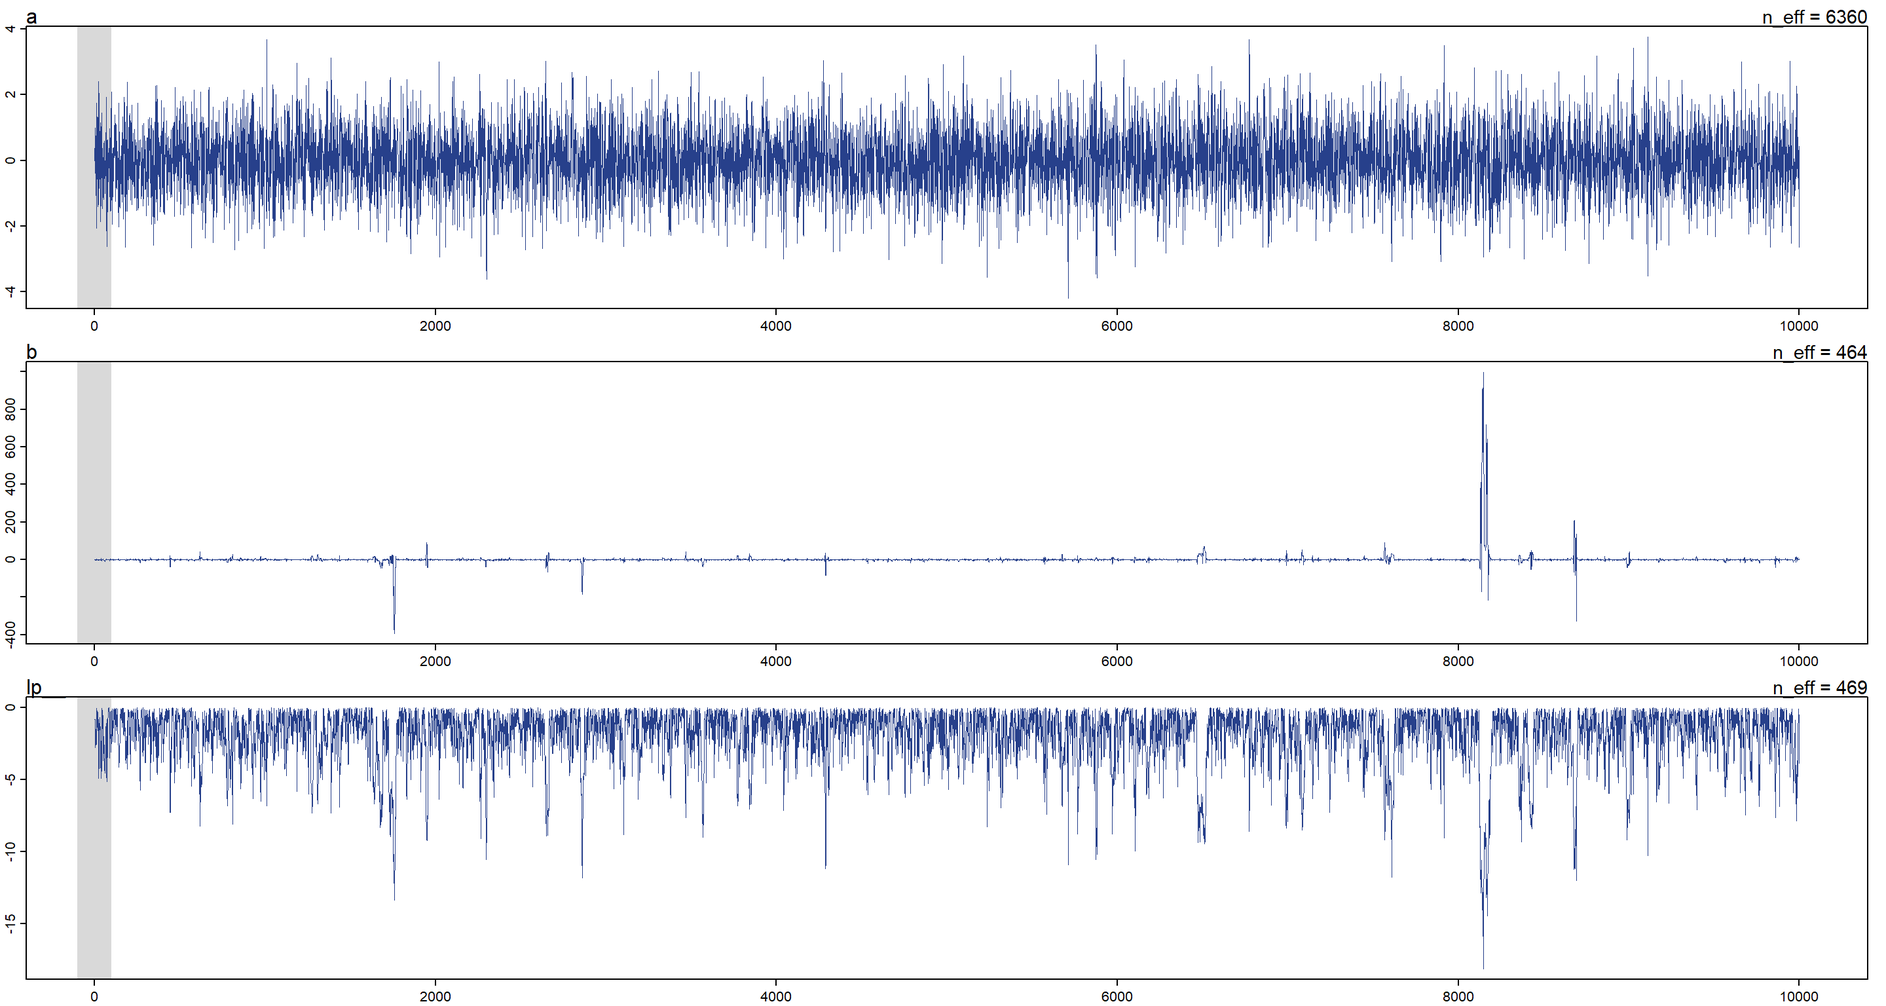
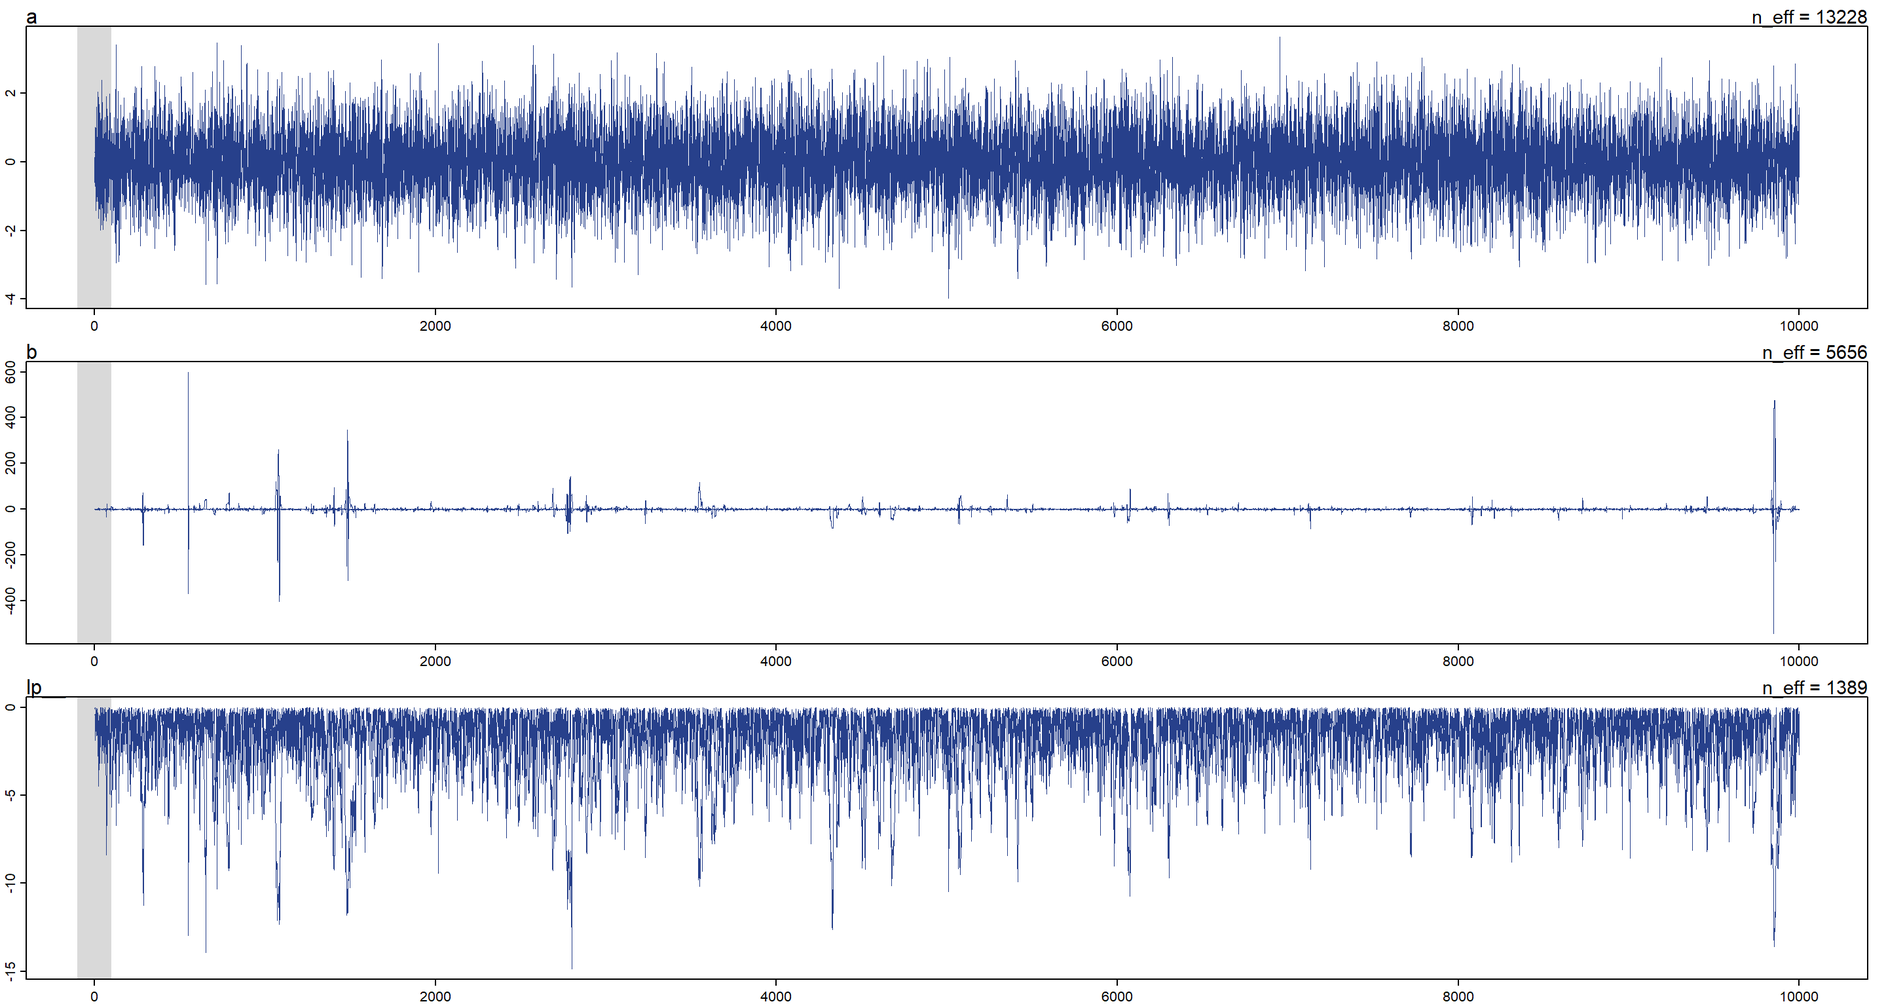
Rethinking chapter 9 fixes

diff --git a/content/post/rethinking/2021-02-25-statistical-rethinking-chapter-09/index.en.html b/content/post/rethinking/2021-02-25-statistical-rethinking-chapter-09/index.en.html
@@ -207,19 +207,19 @@ m.M1Uni &lt;- ulam(
 ## nobs      170     170</code></pre>
 <p>These are strikingly the same. What about the individual model outputs in more detail?</p>
 <pre class="r"><code>precis(m.M1Exp, depth = 2)</code></pre>
-<pre><code>##             mean         sd         5.5%       94.5%    n_eff     Rhat4
-## a[1]   0.8864457 0.01605138  0.860987469  0.91243479 3005.763 0.9994138
-## a[2]   1.0507302 0.01001553  1.034829151  1.06683544 3521.893 0.9981873
-## b[1]   0.1303924 0.07573325  0.006560575  0.24978471 2608.251 0.9999536
-## b[2]  -0.1423070 0.05683615 -0.232964465 -0.05140117 3036.654 0.9990748
-## sigma  0.1114823 0.00606908  0.102374887  0.12166300 2258.505 1.0003882</code></pre>
-<pre class="r"><code>precis(m.M1Uni, depth = 2)</code></pre>
 <pre><code>##             mean          sd         5.5%       94.5%    n_eff     Rhat4
-## a[1]   0.8864136 0.016580747  0.860362421  0.91202420 2157.664 0.9988905
-## a[2]   1.0503298 0.010426655  1.033874634  1.06688468 2937.356 1.0003624
-## b[1]   0.1316695 0.074982017  0.008488316  0.25080372 2509.804 1.0005553
-## b[2]  -0.1428492 0.053696193 -0.230239603 -0.05627152 2682.415 0.9991681
-## sigma  0.1115728 0.006035315  0.102055585  0.12135406 2513.283 1.0001488</code></pre>
+## a[1]   0.8870009 0.016426009  0.860792179  0.91311718 3058.788 0.9996989
+## a[2]   1.0505361 0.010071546  1.034204572  1.06683596 2441.124 0.9999430
+## b[1]   0.1301043 0.077527323  0.004816816  0.25715720 2608.055 1.0003659
+## b[2]  -0.1406151 0.057408481 -0.229519391 -0.04690189 2217.859 0.9990160
+## sigma  0.1116362 0.006415611  0.102074010  0.12233708 1975.102 0.9998487</code></pre>
+<pre class="r"><code>precis(m.M1Uni, depth = 2)</code></pre>
+<pre><code>##             mean          sd        5.5%       94.5%    n_eff     Rhat4
+## a[1]   0.8868006 0.016145899  0.86083581  0.91210244 2324.419 0.9996491
+## a[2]   1.0503724 0.009881112  1.03492424  1.06566846 2246.733 0.9984072
+## b[1]   0.1349258 0.077868755  0.01094043  0.25535022 2022.241 0.9987576
+## b[2]  -0.1412553 0.056157769 -0.22859115 -0.04936888 2147.391 0.9994074
+## sigma  0.1116857 0.006618065  0.10138439  0.12259272 3154.068 0.9994567</code></pre>
 <p>Again, these are very similar aside from the effective number of samples (<code>n_eff</code>) which is much higher for all parameter estimates in the model with the exponential prior on <code>sigma</code> (<code>m.M1Exp</code>) except for <code>sigma</code> itself, which boasts a higher <code>n_eff</code> in the uniform-prior model (<code>m.M1Uni</code>). As such, we conclude that while the different priors have an impact on <code>n_eff</code>, they do not change the posterior distributions. Let me visualise this:</p>
 <pre class="r"><code>Plot_df &lt;- data.frame(
   Posteriors = c(
@@ -283,15 +283,15 @@ coeftab(Explist[[1]], Explist[[2]], Explist[[3]], Explist[[4]])</code></pre>
 <pre><code>##       Explist[[1]] Explist[[2]] Explist[[3]] Explist[[4]]
 ## a[1]     0.89         0.89         0.89         0.89     
 ## a[2]     1.05         1.05         1.05         1.05     
-## b[1]     0.13         0.13         0.13         0.14     
-## b[2]    -0.14        -0.14        -0.14        -0.15     
+## b[1]     0.13         0.13         0.13         0.13     
+## b[2]    -0.14        -0.14        -0.14        -0.14     
 ## sigma    0.11         0.11         0.11         0.09     
 ## nobs      170          170          170          170</code></pre>
 <pre class="r"><code>coeftab(Caulist[[1]], Caulist[[2]], Caulist[[3]], Caulist[[4]])</code></pre>
 <pre><code>##       Caulist[[1]] Caulist[[2]] Caulist[[3]] Caulist[[4]]
 ## a[1]     0.89         0.89         0.89         0.89     
 ## a[2]     1.05         1.05         1.05         1.05     
-## b[1]     0.13         0.13         0.13         0.14     
+## b[1]     0.13         0.13         0.13         0.13     
 ## b[2]    -0.14        -0.14        -0.14        -0.14     
 ## sigma    0.11         0.11         0.11         0.11     
 ## nobs      170          170          170          170</code></pre>
@@ -341,197 +341,25 @@ m.M3 &lt;- ulam(
   ),
   data = dd.trim,
   start = start,
-  chains = 1,
+  chains = 2, cores = 2,
   iter = 100
-)</code></pre>
-<pre><code>## 
-## SAMPLING FOR MODEL &#39;3e007720fce7c8c85360644ebac8b910&#39; NOW (CHAIN 1).
-## Chain 1: 
-## Chain 1: Gradient evaluation took 0 seconds
-## Chain 1: 1000 transitions using 10 leapfrog steps per transition would take 0 seconds.
-## Chain 1: Adjust your expectations accordingly!
-## Chain 1: 
-## Chain 1: 
-## Chain 1: WARNING: There aren&#39;t enough warmup iterations to fit the
-## Chain 1:          three stages of adaptation as currently configured.
-## Chain 1:          Reducing each adaptation stage to 15%/75%/10% of
-## Chain 1:          the given number of warmup iterations:
-## Chain 1:            init_buffer = 7
-## Chain 1:            adapt_window = 38
-## Chain 1:            term_buffer = 5
-## Chain 1: 
-## Chain 1: Iteration:  1 / 100 [  1%]  (Warmup)
-## Chain 1: Iteration: 10 / 100 [ 10%]  (Warmup)
-## Chain 1: Iteration: 20 / 100 [ 20%]  (Warmup)
-## Chain 1: Iteration: 30 / 100 [ 30%]  (Warmup)
-## Chain 1: Iteration: 40 / 100 [ 40%]  (Warmup)
-## Chain 1: Iteration: 50 / 100 [ 50%]  (Warmup)
-## Chain 1: Iteration: 51 / 100 [ 51%]  (Sampling)
-## Chain 1: Iteration: 60 / 100 [ 60%]  (Sampling)
-## Chain 1: Iteration: 70 / 100 [ 70%]  (Sampling)
-## Chain 1: Iteration: 80 / 100 [ 80%]  (Sampling)
-## Chain 1: Iteration: 90 / 100 [ 90%]  (Sampling)
-## Chain 1: Iteration: 100 / 100 [100%]  (Sampling)
-## Chain 1: 
-## Chain 1:  Elapsed Time: 0.01 seconds (Warm-up)
-## Chain 1:                0.009 seconds (Sampling)
-## Chain 1:                0.019 seconds (Total)
-## Chain 1:</code></pre>
-<pre class="r"><code>warm_list &lt;- c(5, 10, 100, 500, 1000) # define warmup values to run through
+)
+warm_list &lt;- c(5, 10, 100, 500, 1000) # define warmup values to run through
 n_eff &lt;- matrix(NA, nrow = length(warm_list), ncol = 5) # first make matrix to hold n_eff results
 for (i in 1:length(warm_list)) { # loop over warm_list and collect n_eff
   w &lt;- warm_list[i]
-  m_temp &lt;- ulam(m.M3, chains = 1, iter = 1000 + w, warmup = w, start = start)
+  m_temp &lt;- ulam(m.M3, chains = 2, cores = 2, iter = 1000 + w, warmup = w, start = start)
   n_eff[i, ] &lt;- precis(m_temp, 2)$n_eff
-}</code></pre>
-<pre><code>## 
-## SAMPLING FOR MODEL &#39;3e007720fce7c8c85360644ebac8b910&#39; NOW (CHAIN 1).
-## Chain 1: 
-## Chain 1: Gradient evaluation took 0 seconds
-## Chain 1: 1000 transitions using 10 leapfrog steps per transition would take 0 seconds.
-## Chain 1: Adjust your expectations accordingly!
-## Chain 1: 
-## Chain 1: 
-## Chain 1: WARNING: No variance estimation is
-## Chain 1:          performed for num_warmup &lt; 20
-## Chain 1: 
-## Chain 1: Iteration:    1 / 1005 [  0%]  (Warmup)
-## Chain 1: Iteration:    6 / 1005 [  0%]  (Sampling)
-## Chain 1: Iteration:  105 / 1005 [ 10%]  (Sampling)
-## Chain 1: Iteration:  205 / 1005 [ 20%]  (Sampling)
-## Chain 1: Iteration:  305 / 1005 [ 30%]  (Sampling)
-## Chain 1: Iteration:  405 / 1005 [ 40%]  (Sampling)
-## Chain 1: Iteration:  505 / 1005 [ 50%]  (Sampling)
-## Chain 1: Iteration:  605 / 1005 [ 60%]  (Sampling)
-## Chain 1: Iteration:  705 / 1005 [ 70%]  (Sampling)
-## Chain 1: Iteration:  805 / 1005 [ 80%]  (Sampling)
-## Chain 1: Iteration:  905 / 1005 [ 90%]  (Sampling)
-## Chain 1: Iteration: 1005 / 1005 [100%]  (Sampling)
-## Chain 1: 
-## Chain 1:  Elapsed Time: 0 seconds (Warm-up)
-## Chain 1:                0.036 seconds (Sampling)
-## Chain 1:                0.036 seconds (Total)
-## Chain 1: 
-## 
-## SAMPLING FOR MODEL &#39;3e007720fce7c8c85360644ebac8b910&#39; NOW (CHAIN 1).
-## Chain 1: 
-## Chain 1: Gradient evaluation took 0 seconds
-## Chain 1: 1000 transitions using 10 leapfrog steps per transition would take 0 seconds.
-## Chain 1: Adjust your expectations accordingly!
-## Chain 1: 
-## Chain 1: 
-## Chain 1: WARNING: No variance estimation is
-## Chain 1:          performed for num_warmup &lt; 20
-## Chain 1: 
-## Chain 1: Iteration:    1 / 1010 [  0%]  (Warmup)
-## Chain 1: Iteration:   11 / 1010 [  1%]  (Sampling)
-## Chain 1: Iteration:  111 / 1010 [ 10%]  (Sampling)
-## Chain 1: Iteration:  212 / 1010 [ 20%]  (Sampling)
-## Chain 1: Iteration:  313 / 1010 [ 30%]  (Sampling)
-## Chain 1: Iteration:  414 / 1010 [ 40%]  (Sampling)
-## Chain 1: Iteration:  515 / 1010 [ 50%]  (Sampling)
-## Chain 1: Iteration:  616 / 1010 [ 60%]  (Sampling)
-## Chain 1: Iteration:  717 / 1010 [ 70%]  (Sampling)
-## Chain 1: Iteration:  818 / 1010 [ 80%]  (Sampling)
-## Chain 1: Iteration:  919 / 1010 [ 90%]  (Sampling)
-## Chain 1: Iteration: 1010 / 1010 [100%]  (Sampling)
-## Chain 1: 
-## Chain 1:  Elapsed Time: 0.001 seconds (Warm-up)
-## Chain 1:                0.164 seconds (Sampling)
-## Chain 1:                0.165 seconds (Total)
-## Chain 1: 
-## 
-## SAMPLING FOR MODEL &#39;3e007720fce7c8c85360644ebac8b910&#39; NOW (CHAIN 1).
-## Chain 1: 
-## Chain 1: Gradient evaluation took 0 seconds
-## Chain 1: 1000 transitions using 10 leapfrog steps per transition would take 0 seconds.
-## Chain 1: Adjust your expectations accordingly!
-## Chain 1: 
-## Chain 1: 
-## Chain 1: WARNING: There aren&#39;t enough warmup iterations to fit the
-## Chain 1:          three stages of adaptation as currently configured.
-## Chain 1:          Reducing each adaptation stage to 15%/75%/10% of
-## Chain 1:          the given number of warmup iterations:
-## Chain 1:            init_buffer = 15
-## Chain 1:            adapt_window = 75
-## Chain 1:            term_buffer = 10
-## Chain 1: 
-## Chain 1: Iteration:    1 / 1100 [  0%]  (Warmup)
-## Chain 1: Iteration:  101 / 1100 [  9%]  (Sampling)
-## Chain 1: Iteration:  210 / 1100 [ 19%]  (Sampling)
-## Chain 1: Iteration:  320 / 1100 [ 29%]  (Sampling)
-## Chain 1: Iteration:  430 / 1100 [ 39%]  (Sampling)
-## Chain 1: Iteration:  540 / 1100 [ 49%]  (Sampling)
-## Chain 1: Iteration:  650 / 1100 [ 59%]  (Sampling)
-## Chain 1: Iteration:  760 / 1100 [ 69%]  (Sampling)
-## Chain 1: Iteration:  870 / 1100 [ 79%]  (Sampling)
-## Chain 1: Iteration:  980 / 1100 [ 89%]  (Sampling)
-## Chain 1: Iteration: 1090 / 1100 [ 99%]  (Sampling)
-## Chain 1: Iteration: 1100 / 1100 [100%]  (Sampling)
-## Chain 1: 
-## Chain 1:  Elapsed Time: 0.012 seconds (Warm-up)
-## Chain 1:                0.112 seconds (Sampling)
-## Chain 1:                0.124 seconds (Total)
-## Chain 1: 
-## 
-## SAMPLING FOR MODEL &#39;3e007720fce7c8c85360644ebac8b910&#39; NOW (CHAIN 1).
-## Chain 1: 
-## Chain 1: Gradient evaluation took 0 seconds
-## Chain 1: 1000 transitions using 10 leapfrog steps per transition would take 0 seconds.
-## Chain 1: Adjust your expectations accordingly!
-## Chain 1: 
-## Chain 1: 
-## Chain 1: Iteration:    1 / 1500 [  0%]  (Warmup)
-## Chain 1: Iteration:  150 / 1500 [ 10%]  (Warmup)
-## Chain 1: Iteration:  300 / 1500 [ 20%]  (Warmup)
-## Chain 1: Iteration:  450 / 1500 [ 30%]  (Warmup)
-## Chain 1: Iteration:  501 / 1500 [ 33%]  (Sampling)
-## Chain 1: Iteration:  650 / 1500 [ 43%]  (Sampling)
-## Chain 1: Iteration:  800 / 1500 [ 53%]  (Sampling)
-## Chain 1: Iteration:  950 / 1500 [ 63%]  (Sampling)
-## Chain 1: Iteration: 1100 / 1500 [ 73%]  (Sampling)
-## Chain 1: Iteration: 1250 / 1500 [ 83%]  (Sampling)
-## Chain 1: Iteration: 1400 / 1500 [ 93%]  (Sampling)
-## Chain 1: Iteration: 1500 / 1500 [100%]  (Sampling)
-## Chain 1: 
-## Chain 1:  Elapsed Time: 0.033 seconds (Warm-up)
-## Chain 1:                0.044 seconds (Sampling)
-## Chain 1:                0.077 seconds (Total)
-## Chain 1: 
-## 
-## SAMPLING FOR MODEL &#39;3e007720fce7c8c85360644ebac8b910&#39; NOW (CHAIN 1).
-## Chain 1: 
-## Chain 1: Gradient evaluation took 0 seconds
-## Chain 1: 1000 transitions using 10 leapfrog steps per transition would take 0 seconds.
-## Chain 1: Adjust your expectations accordingly!
-## Chain 1: 
-## Chain 1: 
-## Chain 1: Iteration:    1 / 2000 [  0%]  (Warmup)
-## Chain 1: Iteration:  200 / 2000 [ 10%]  (Warmup)
-## Chain 1: Iteration:  400 / 2000 [ 20%]  (Warmup)
-## Chain 1: Iteration:  600 / 2000 [ 30%]  (Warmup)
-## Chain 1: Iteration:  800 / 2000 [ 40%]  (Warmup)
-## Chain 1: Iteration: 1000 / 2000 [ 50%]  (Warmup)
-## Chain 1: Iteration: 1001 / 2000 [ 50%]  (Sampling)
-## Chain 1: Iteration: 1200 / 2000 [ 60%]  (Sampling)
-## Chain 1: Iteration: 1400 / 2000 [ 70%]  (Sampling)
-## Chain 1: Iteration: 1600 / 2000 [ 80%]  (Sampling)
-## Chain 1: Iteration: 1800 / 2000 [ 90%]  (Sampling)
-## Chain 1: Iteration: 2000 / 2000 [100%]  (Sampling)
-## Chain 1: 
-## Chain 1:  Elapsed Time: 0.055 seconds (Warm-up)
-## Chain 1:                0.042 seconds (Sampling)
-## Chain 1:                0.097 seconds (Total)
-## Chain 1:</code></pre>
-<pre class="r"><code>colnames(n_eff) &lt;- rownames(precis(m_temp, 2))
+}
+colnames(n_eff) &lt;- rownames(precis(m_temp, 2))
 rownames(n_eff) &lt;- warm_list
 n_eff # columns show parameters, rows show n_eff</code></pre>
-<pre><code>##            a[1]       a[2]        b[1]        b[2]      sigma
-## 5      35.56209   45.68008    5.820013    8.469551   14.09319
-## 10    810.71555 1219.86616  290.290358  462.198338  596.06486
-## 100  1247.42388  900.04895  439.302954  548.439464  542.47763
-## 500  1024.56144 1749.48099 1411.965763 1386.418312 1406.32429
-## 1000 1189.87284 1518.47481 1530.058993 1116.923371 1253.20735</code></pre>
+<pre><code>##             a[1]        a[2]        b[1]        b[2]       sigma
+## 5       5.903345    3.527661    7.476369    1.618142    3.695732
+## 10   2011.987593 1640.917138  973.329525 1104.374945  916.737856
+## 100  1661.106196 2258.688740  842.458239 1321.829745 1291.113859
+## 500  3189.427465 3502.669365 2790.076526 2624.348711 2221.655063
+## 1000 2702.581240 3247.665141 2185.635917 3004.055507 2912.602052</code></pre>
 <p>As we can see, past just 10 warmup samples, <code>n_eff</code> does not change much (in terms of how useful our samples are). In this case, we could be quite happy with a warmup of 10.</p>
 </div>
 </div>
@@ -548,52 +376,20 @@ n_eff # columns show parameters, rows show n_eff</code></pre>
   data = list(y = 1),
   start = list(a = 0, b = 0),
   iter = 1e4,
+  chains = 2, cores = 2,
   warmup = 100,
   WAIC = FALSE
 )</code></pre>
-<pre><code>## 
-## SAMPLING FOR MODEL &#39;a76c47dcc5ce98f19af73ae2a2b31e08&#39; NOW (CHAIN 1).
-## Chain 1: 
-## Chain 1: Gradient evaluation took 0 seconds
-## Chain 1: 1000 transitions using 10 leapfrog steps per transition would take 0 seconds.
-## Chain 1: Adjust your expectations accordingly!
-## Chain 1: 
-## Chain 1: 
-## Chain 1: WARNING: There aren&#39;t enough warmup iterations to fit the
-## Chain 1:          three stages of adaptation as currently configured.
-## Chain 1:          Reducing each adaptation stage to 15%/75%/10% of
-## Chain 1:          the given number of warmup iterations:
-## Chain 1:            init_buffer = 15
-## Chain 1:            adapt_window = 75
-## Chain 1:            term_buffer = 10
-## Chain 1: 
-## Chain 1: Iteration:    1 / 10000 [  0%]  (Warmup)
-## Chain 1: Iteration:  101 / 10000 [  1%]  (Sampling)
-## Chain 1: Iteration: 1100 / 10000 [ 11%]  (Sampling)
-## Chain 1: Iteration: 2100 / 10000 [ 21%]  (Sampling)
-## Chain 1: Iteration: 3100 / 10000 [ 31%]  (Sampling)
-## Chain 1: Iteration: 4100 / 10000 [ 41%]  (Sampling)
-## Chain 1: Iteration: 5100 / 10000 [ 51%]  (Sampling)
-## Chain 1: Iteration: 6100 / 10000 [ 61%]  (Sampling)
-## Chain 1: Iteration: 7100 / 10000 [ 71%]  (Sampling)
-## Chain 1: Iteration: 8100 / 10000 [ 81%]  (Sampling)
-## Chain 1: Iteration: 9100 / 10000 [ 91%]  (Sampling)
-## Chain 1: Iteration: 10000 / 10000 [100%]  (Sampling)
-## Chain 1: 
-## Chain 1:  Elapsed Time: 0.002 seconds (Warm-up)
-## Chain 1:                0.226 seconds (Sampling)
-## Chain 1:                0.228 seconds (Total)
-## Chain 1:</code></pre>
 <p>Compare the samples for the parameters <code>a</code> and <code>b</code>. Can you explain the different trace plots, using what you know about the Cauchy distribution?</p>
 <p><strong>Answer:</strong> First of all, let’s inspect the posterior:</p>
 <pre class="r"><code>precis(mp)</code></pre>
-<pre><code>##          mean        sd      5.5%    94.5%     n_eff     Rhat4
-## a 0.004280069  1.009035 -1.590049 1.615974 6359.8064 0.9999392
-## b 1.723906639 37.088661 -5.120589 6.599559  463.8496 1.0046542</code></pre>
+<pre><code>##           mean         sd      5.5%    94.5%    n_eff     Rhat4
+## a -0.001658073  0.9929496 -1.609535 1.576197 13228.47 0.9999635
+## b  0.211343696 17.6493463 -5.057218 5.139947  5656.09 0.9999865</code></pre>
 <p>Oof. Those uncertainties don’t look good at all! So what does the model even do? It simply just samples <code>a</code> from a normal distribution with mean 0 and standard deviation 1. <code>b</code> is sampled from a cauchy distribution. Let’s look at the traceplot for this:</p>
 <pre class="r"><code>plot(mp, n_cols = 1, col = &quot;royalblue4&quot;)</code></pre>
 <p><img src="{{< blogdown/postref >}}index.en_files/figure-html/unnamed-chunk-14-1.png" width="1440" /></p>
-<p>As we can see, there are quite some outliers in the sampling of the cauchy distribution (<code>b</code>). Why is that? Because the cauchy distribution has very heavy tails thus making it more likely to jump to a value that is far out there in terms of posterior probability. Note that this also decreases <code>n_eff</code>. Unfortunately, I have no idea what that last row in the plot is…</p>
+<p>As we can see, there are quite some outliers in the sampling of the cauchy distribution (<code>b</code>). Why is that? Because the cauchy distribution has very heavy tails thus making it more likely to jump to a value that is far out there in terms of posterior probability. Note that this also decreases <code>n_eff</code>. <code>lp</code> in the above is the log-posterior.</p>
 <p>Now let’s see how the samples we drew measure up against the underlying functions of <code>a</code> and <code>b</code>, respectively:</p>
 <pre class="r"><code>post &lt;- extract.samples(mp)
 par(mfrow = c(1, 2))
@@ -661,21 +457,21 @@ m5.3_stan &lt;- ulam(
 <p>Now we compare the models:</p>
 <pre class="r"><code>compare(m5.1_stan, m5.2_stan, m5.3_stan, func = PSIS)</code></pre>
 <pre><code>##               PSIS        SE     dPSIS       dSE    pPSIS       weight
-## m5.1_stan 125.9973 12.881465  0.000000        NA 3.766658 0.7151234443
-## m5.3_stan 127.8450 12.888449  1.847648 0.7632576 4.860575 0.2839026026
-## m5.2_stan 139.1950  9.860792 13.197695 9.3004218 2.885890 0.0009739531</code></pre>
+## m5.1_stan 125.8327 12.851006  0.000000        NA 3.668253 0.6999619781
+## m5.3_stan 127.5320 12.816489  1.699247 0.8162701 4.701011 0.2992869363
+## m5.2_stan 139.5072  9.915891 13.674523 9.3466661 3.046405 0.0007510857</code></pre>
 <pre class="r"><code>compare(m5.1_stan, m5.2_stan, m5.3_stan, func = WAIC)</code></pre>
-<pre><code>##               WAIC        SE    dWAIC       dSE    pWAIC       weight
-## m5.1_stan 125.8431 12.654530  0.00000        NA 3.689531 0.7139341221
-## m5.3_stan 127.6787 12.674624  1.83564 0.7558837 4.777444 0.2851372787
-## m5.2_stan 139.1328  9.742313 13.28974 9.2046726 2.854785 0.0009285992</code></pre>
+<pre><code>##               WAIC        SE     dWAIC       dSE    pWAIC       weight
+## m5.1_stan 125.7438 12.671502  0.000000        NA 3.623802 0.6865441502
+## m5.3_stan 127.3165 12.569254  1.572727 0.8350809 4.593300 0.3127195815
+## m5.2_stan 139.4195  9.772618 13.675663 9.2952338 3.002524 0.0007362682</code></pre>
 <p>WAIC tells a similar story as PSIS, but the model only containing age (<code>m5.1_stan</code>) wins. The model with both predictors (<code>m5.3_stan</code>) does almost as well. However, their respective PSIS and WAIC values are nearly identical. Furthermore, both models get assigned all of the WAIC weight. Let’s call these equal in performance and investigate why:</p>
 <pre class="r"><code>precis(m5.3_stan)</code></pre>
-<pre><code>##               mean         sd       5.5%      94.5%     n_eff     Rhat4
-## a      0.002177273 0.10322803 -0.1606536  0.1678104 1741.5639 1.0004254
-## bA    -0.610145734 0.16718426 -0.8700749 -0.3402724  880.1382 1.0037296
-## bM    -0.059829706 0.16821240 -0.3286798  0.2107478  919.6016 1.0055149
-## sigma  0.825957415 0.08738421  0.6952943  0.9707388 1468.4170 0.9993807</code></pre>
+<pre><code>##               mean         sd       5.5%      94.5%    n_eff     Rhat4
+## a      0.001911015 0.10156156 -0.1593126  0.1619227 1411.228 0.9998513
+## bA    -0.613121357 0.15881769 -0.8630583 -0.3599152 1256.856 0.9996824
+## bM    -0.068096219 0.15901946 -0.3143977  0.1921707 1210.006 1.0004537
+## sigma  0.827959793 0.08583939  0.7048266  0.9760780 1518.261 0.9992775</code></pre>
 <p>While <code>m5.3_stan</code> contains the marriage predictor, it is very unsure of it’s influence. In practical terms, this means that <code>m5.1_stan</code> and <code>m5.3_stan</code> make basically the same predictions</p>
 </div>
 <div id="practice-h3" class="section level2">
@@ -785,9 +581,9 @@ m.H4_2 &lt;- ulam(
 )</code></pre>
 <p>Now we compare them with WAIC:</p>
 <pre class="r"><code>compare(m.H4_1, m.H4_2)</code></pre>
-<pre><code>##            WAIC       SE     dWAIC       dSE    pWAIC   weight
-## m.H4_2 188.8283 12.28582 0.0000000        NA 3.670430 0.517123
-## m.H4_1 188.9653 12.21340 0.1370379 0.2419745 3.771368 0.482877</code></pre>
+<pre><code>##            WAIC       SE     dWAIC      dSE    pWAIC    weight
+## m.H4_1 205.2138 10.78402 0.0000000       NA 3.230116 0.6027191
+## m.H4_2 206.0474 11.32360 0.8336155 2.593928 2.533800 0.3972809</code></pre>
 <p>The models are pretty much tied. The model with truncated priors (<code>m.H4_2</code>) is less flexible as indicated by <code>pWAIC</code>. This is because the prior is more informative and the variance in the posterior distribution is smaller as a result.</p>
 </div>
 <div id="practice-h5" class="section level2">
@@ -823,7 +619,7 @@ text(x = f, y = pop_size, labels = names(f)) # add names of islands / their posi
 <p><strong>Answer:</strong> We want to fit the following model:</p>
 <p><span class="math display">\[w∼Binom(θ,n)\]</span>
 <span class="math display">\[θ∼Unif(0,1)\]</span>
-Our Mentropolis algorithm looks like this:</p>
+Our Metropolis algorithm looks like this:</p>
 <pre class="r"><code>set.seed(42)
 # the globe tossing data
 w &lt;- 6
